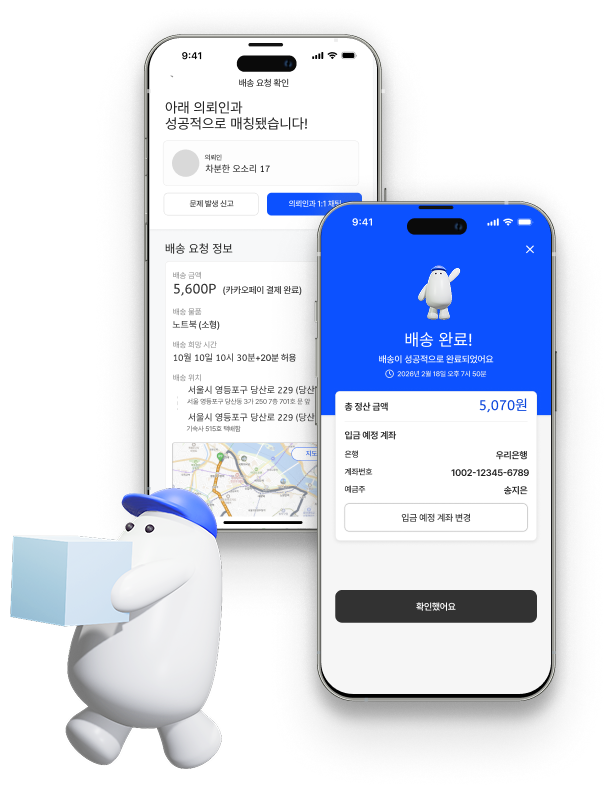
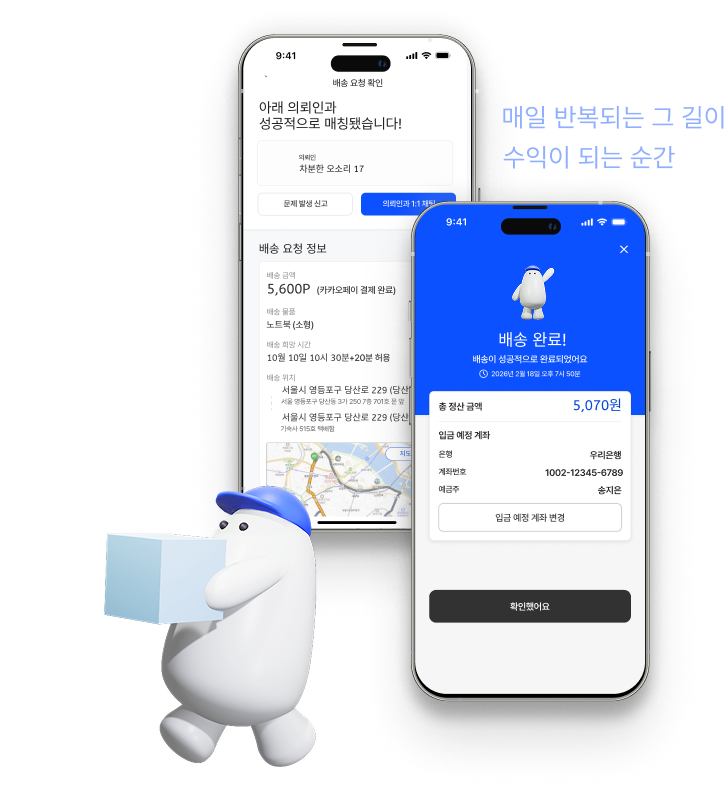
fix: 모바일 히어로 섹션 추가

Changed region(s): [[0.0, 0.0302, 1.0, 0.9673], [0.6509, 0.6348, 0.7749, 0.665]]

diff --git a/src/components/HeroSection.tsx b/src/components/HeroSection.tsx
@@ -41,7 +41,35 @@ function HeroSection() {
 
   return (
     <>
-      <section className="container-px flex max-h-[706px] justify-between">
+      {/* 모바일 사이즈 히어로 섹션 */}
+      <section className="desktop:hidden mx-auto flex max-w-[600px] flex-col justify-center px-[40px]">
+        {/* 태그라인, 브랜드 아이콘 */}
+        <div className="mt-[60px] flex flex-col gap-[8px]">
+          <p className="typography-body-1 text-semantic-text-brand">{HERO_SECTION_DATA.tagline}</p>
+          <div className="desktop:w-[425px] w-[192px]">
+            <img
+              src={HERO_SECTION_DATA.brandIcon}
+              alt="brand-icon"
+              className="h-full w-full object-contain"
+            />
+          </div>
+        </div>
+        {/* 모바일 히어로 이미지 */}
+        <div className="mb-[38px]">
+          <img src={mobileHero} alt="mobile-hero" className="w-full object-contain" />
+        </div>
+        {/* 설명, 사전 등록 버튼 */}
+        <div className="flex flex-col gap-[24px]">
+          <p className="typography-body-2 text-semantic-text-secondary mb-[16px] text-center whitespace-pre-line">
+            {HERO_SECTION_DATA.description}
+          </p>
+          <Button className="typography-button hover:bg-gsgs-neutral-100 h-auto min-h-0 rounded-[20px] bg-white px-[70px] py-[20px] text-[#222] shadow-[0_4px_4px_0_rgba(0,0,0,0.25)]">
+            {HERO_SECTION_DATA.cta.text}
+          </Button>
+          <p>{HERO_SECTION_DATA.cta.subText}</p>
+        </div>
+      </section>
+      <section className="container-px desktop:max-w-[1440px] desktop:max-h-[706px] mx-auto flex max-w-[700px] justify-between">
         <div className="desktop:gap-[140px] flex w-full flex-col gap-[44px]">
           {/* 아이콘 */}
           <div className="desktop:gap-[24px] flex flex-col gap-[14px] pt-[60px]">
